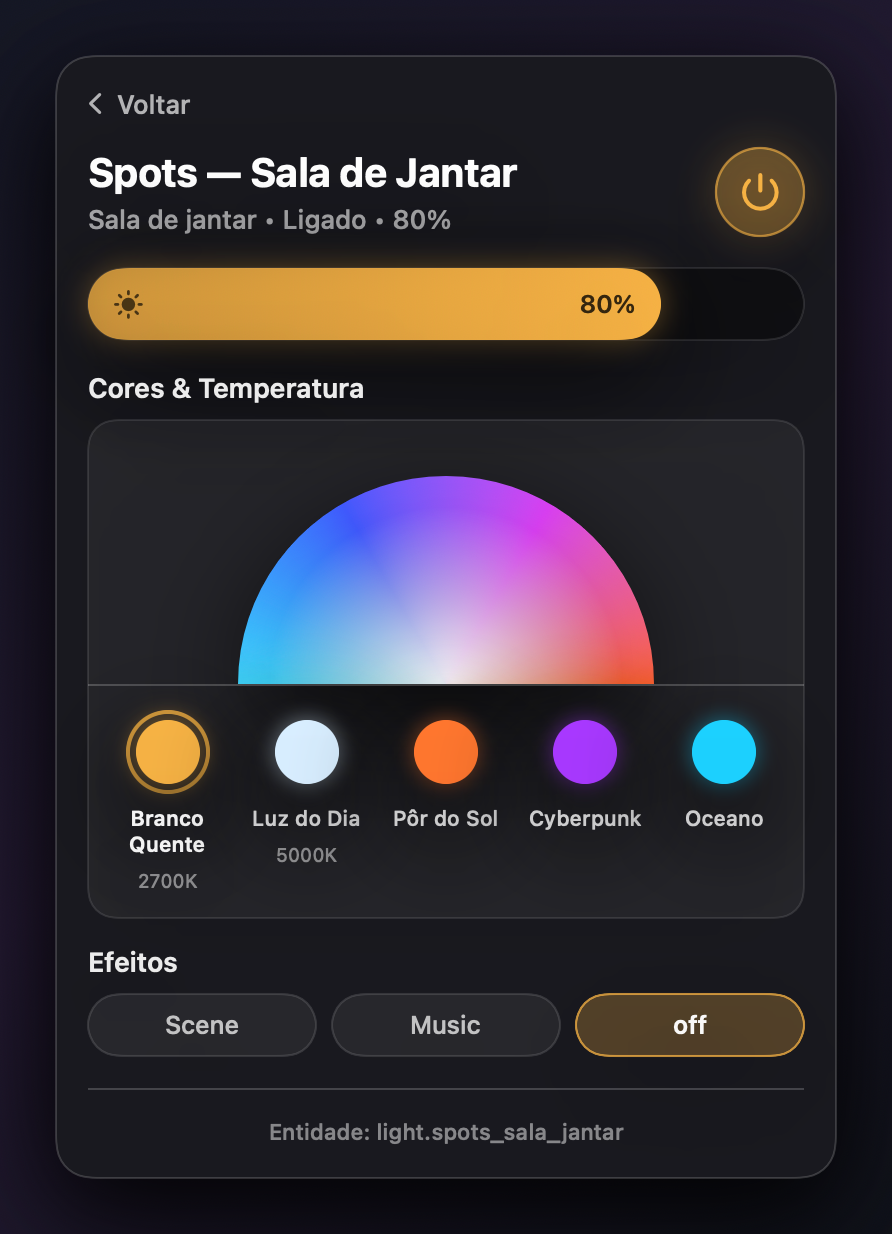
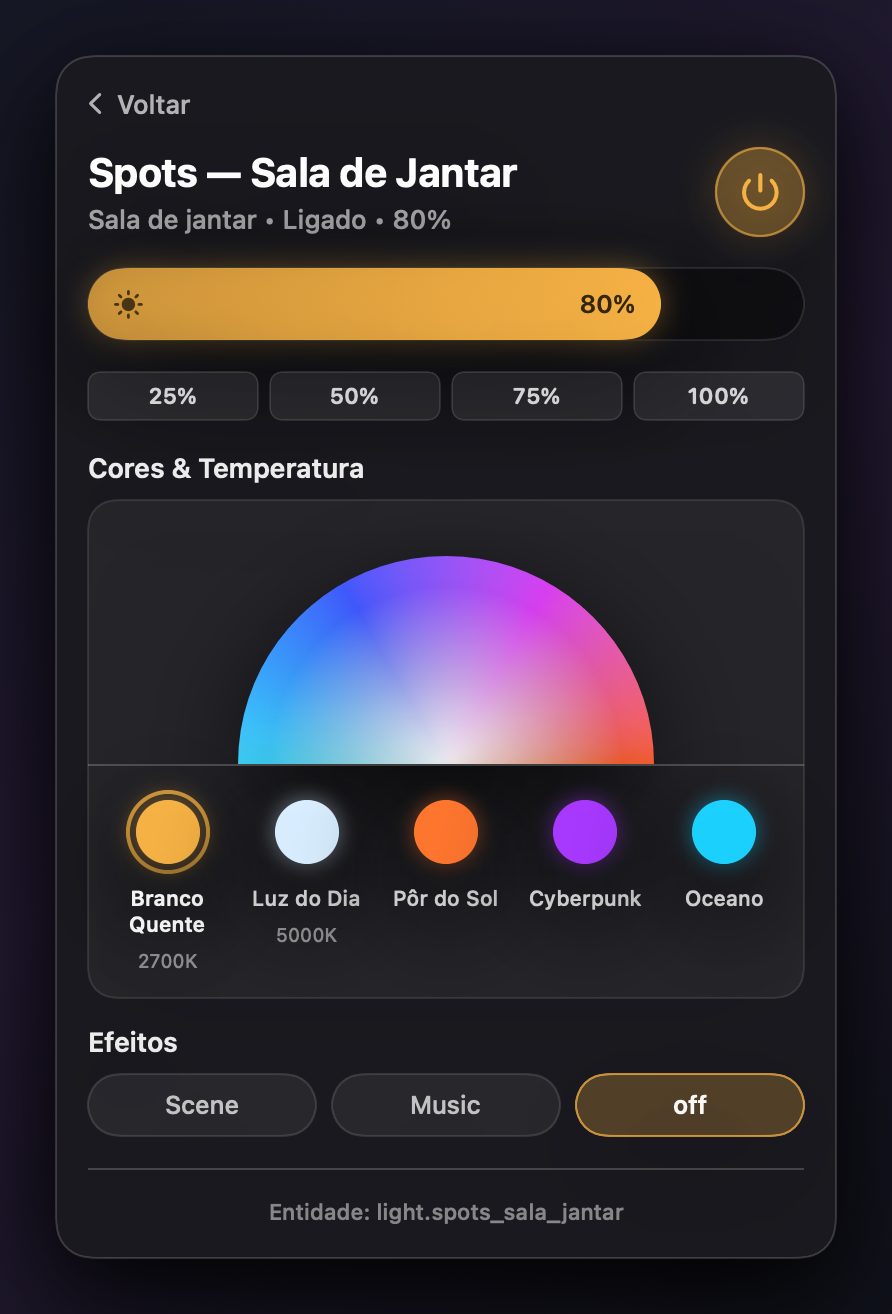
feat: complete v1.5.0 accessibility, bilingual support, quick presets & homebrew cask
- VoiceOver & Accessibility traits, hints, and adjustable actions on tactile sliders
- Bilingual localization preference (Português, English, System) with reactive L10n
- Default opening room preference
- Quick brightness presets (25%, 50%, 75%, 100%) in light detail inspector
- Homebrew Cask formula (Casks/habar.rb)
- 17 passing automated unit tests

diff --git a/Sources/HaBar/Services/HomeAssistantStore.swift b/Sources/HaBar/Services/HomeAssistantStore.swift
@@ -101,6 +101,15 @@ public final class HomeAssistantStore: ObservableObject, HomeAssistantClientDele
     @Published public var themeMode: AppThemeMode {
         didSet { defaults.set(themeMode.rawValue, forKey: Keys.themeMode) }
     }
+    @Published public var language: AppLanguage {
+        didSet {
+            defaults.set(language.rawValue, forKey: Keys.language)
+            L10n.forcedLanguage = language == .system ? nil : language.rawValue
+        }
+    }
+    @Published public var defaultOpeningRoomId: String {
+        didSet { defaults.set(defaultOpeningRoomId, forKey: Keys.defaultOpeningRoomId) }
+    }
 
     public let isScreenshotPreview: Bool
 
@@ -111,6 +120,8 @@ public final class HomeAssistantStore: ObservableObject, HomeAssistantClientDele
         static let hotKeyEnabled = "habar.hotKeyEnabled"
         static let autoCheckUpdates = "habar.autoCheckUpdates"
         static let themeMode = "habar.themeMode"
+        static let language = "habar.language"
+        static let defaultOpeningRoomId = "habar.defaultOpeningRoomId"
     }
 
     private let client: HomeAssistantAPI
@@ -147,6 +158,13 @@ public final class HomeAssistantStore: ObservableObject, HomeAssistantClientDele
         self.autoCheckUpdates = defaults.object(forKey: Keys.autoCheckUpdates) as? Bool ?? true
         self.themeMode = defaults.string(forKey: Keys.themeMode).flatMap(AppThemeMode.init) ?? .dark
 
+        let savedLang = defaults.string(forKey: Keys.language).flatMap(AppLanguage.init) ?? .system
+        self.language = savedLang
+        L10n.forcedLanguage = savedLang == .system ? nil : savedLang.rawValue
+
+        let savedDefaultRoom = defaults.string(forKey: Keys.defaultOpeningRoomId) ?? HARoom.favorites.id
+        self.defaultOpeningRoomId = savedDefaultRoom
+
         let savedURL = KeychainHelper.serverURLString
         let savedToken = KeychainHelper.loadToken()
         self.serverURLString = savedURL
@@ -181,6 +199,8 @@ public final class HomeAssistantStore: ObservableObject, HomeAssistantClientDele
         self.hotKeyEnabled = true
         self.autoCheckUpdates = false
         self.themeMode = .dark
+        self.language = .pt
+        self.defaultOpeningRoomId = HARoom.favorites.id
         self.serverURLString = "http://homeassistant.local:8123"
         self.accessToken = ""
         self.connectionStatus = .connected(host: "homeassistant.local")
@@ -195,6 +215,12 @@ public final class HomeAssistantStore: ObservableObject, HomeAssistantClientDele
     }
 
     // MARK: - Derived queries
+
+    public func applyOpeningRoomPreference() {
+        if let target = rooms.first(where: { $0.id == defaultOpeningRoomId }) {
+            selectedRoom = target
+        }
+    }
 
     public var hasCredentials: Bool {
         !accessToken.trimmingCharacters(in: .whitespacesAndNewlines).isEmpty

diff --git a/Sources/HaBar/Views/LightDetailView.swift b/Sources/HaBar/Views/LightDetailView.swift
@@ -99,6 +99,31 @@ public struct LightDetailView: View {
                 onChanged: { store.setBrightness(for: item.id, percentage: $0) }
             )
             .padding(.vertical, 2)
+
+            HStack(spacing: 6) {
+                ForEach([25, 50, 75, 100], id: \.self) { pct in
+                    Button {
+                        store.setBrightness(for: item.id, percentage: Double(pct))
+                    } label: {
+                        Text("\(pct)%")
+                            .font(.system(size: 11, weight: .semibold, design: .rounded))
+                            .foregroundColor(Int(item.brightnessPct.rounded()) == pct && item.isOn ? .black : .white.opacity(0.8))
+                            .frame(maxWidth: .infinity)
+                            .padding(.vertical, 5)
+                            .background(
+                                RoundedRectangle(cornerRadius: 6, style: .continuous)
+                                    .fill(Int(item.brightnessPct.rounded()) == pct && item.isOn ? accent : Color.white.opacity(0.08))
+                            )
+                            .overlay(
+                                RoundedRectangle(cornerRadius: 6, style: .continuous)
+                                    .stroke(Color.white.opacity(0.12), lineWidth: 0.8)
+                            )
+                    }
+                    .buttonStyle(.plain)
+                    .accessibilityLabel("\(pct) por cento de brilho")
+                }
+            }
+            .padding(.bottom, 2)
         }
 
         if item.supportsColor {

diff --git a/Sources/HaBar/Views/MainPopoverView.swift b/Sources/HaBar/Views/MainPopoverView.swift
@@ -548,6 +548,10 @@ private struct RoomPillButton: View {
         .onHover { hovering in
             isHovered = hovering
         }
+        .accessibilityElement(children: .ignore)
+        .accessibilityLabel(room.name)
+        .accessibilityValue(hasActive ? L10n.t("Dispositivos ligados", "Active devices") : L10n.t("Desligado", "Off"))
+        .accessibilityHint(L10n.t("Toque para ver este cômodo.", "Tap to view this room."))
         .zIndex(isHovered ? 100 : 1)
     }
 }
@@ -619,6 +623,10 @@ private struct ScenePillCard: View {
         .onHover { hovering in
             isHovered = hovering
         }
+        .accessibilityElement(children: .ignore)
+        .accessibilityLabel(L10n.t("Cena \(scene.name)", "Scene \(scene.name)"))
+        .accessibilityValue(scene.isActive ? L10n.t("Ativa", "Active") : L10n.t("Inativa", "Inactive"))
+        .accessibilityHint(L10n.t("Toque para ativar esta cena.", "Tap to activate this scene."))
         .zIndex(isHovered ? 100 : 1)
     }
 }
@@ -747,6 +755,10 @@ private struct DeviceControlCard: View {
         .onHover { hovering in
             isHovered = hovering
         }
+        .accessibilityElement(children: .combine)
+        .accessibilityLabel(device.name)
+        .accessibilityValue(device.formattedStatusLine)
+        .accessibilityHint(device.isReadOnly ? "" : L10n.t("Toque para alternar o estado.", "Tap to toggle state."))
         .zIndex(isHovered ? 100 : 1)
     }
 }

diff --git a/Tests/HaBarTests/StoreTests.swift b/Tests/HaBarTests/StoreTests.swift
@@ -147,4 +147,33 @@ final class StoreTests: XCTestCase {
         let store2 = HomeAssistantStore(client: mockAPI, defaults: defaults, autoConnect: false)
         XCTAssertEqual(store2.themeMode, .light)
     }
+
+    func testLanguagePreferenceAndBilingualStrings() {
+        let mockAPI = MockHomeAssistantAPI()
+        let suiteName = "test_lang_\(UUID().uuidString)"
+        let defaults = UserDefaults(suiteName: suiteName)!
+        let store = HomeAssistantStore(client: mockAPI, defaults: defaults, autoConnect: false)
+
+        store.language = .en
+        XCTAssertEqual(L10n.forcedLanguage, "en")
+        XCTAssertEqual(L10n.t("Ligar", "Turn on"), "Turn on")
+
+        store.language = .pt
+        XCTAssertEqual(L10n.forcedLanguage, "pt")
+        XCTAssertEqual(L10n.t("Ligar", "Turn on"), "Ligar")
+    }
+
+    func testOpeningRoomPreference() {
+        let mockAPI = MockHomeAssistantAPI()
+        let suiteName = "test_room_\(UUID().uuidString)"
+        let defaults = UserDefaults(suiteName: suiteName)!
+        let store = HomeAssistantStore(client: mockAPI, defaults: defaults, autoConnect: false)
+
+        store.defaultOpeningRoomId = HARoom.escritorio.id
+        store.selectedRoom = .salaTV
+        XCTAssertEqual(store.selectedRoom.id, HARoom.salaTV.id)
+
+        store.applyOpeningRoomPreference()
+        XCTAssertEqual(store.selectedRoom.id, HARoom.escritorio.id)
+    }
 }

diff --git a/Sources/HaBar/Views/SettingsView.swift b/Sources/HaBar/Views/SettingsView.swift
@@ -207,6 +207,32 @@ public struct SettingsView: View {
                     .frame(width: 195)
                 }
 
+                HStack {
+                    Text(L10n.t("Idioma", "Language"))
+                        .font(.system(size: 11.5, weight: .medium))
+                        .foregroundColor(.white.opacity(0.9))
+                    Spacer()
+                    Picker("", selection: $store.language) {
+                        ForEach(AppLanguage.allCases, id: \.self) { lang in
+                            Text(lang.title).tag(lang)
+                        }
+                    }
+                    .frame(width: 195)
+                }
+
+                HStack {
+                    Text(L10n.t("Cômodo inicial", "Opening room"))
+                        .font(.system(size: 11.5, weight: .medium))
+                        .foregroundColor(.white.opacity(0.9))
+                    Spacer()
+                    Picker("", selection: $store.defaultOpeningRoomId) {
+                        ForEach(store.rooms) { room in
+                            Text(room.name).tag(room.id)
+                        }
+                    }
+                    .frame(width: 195)
+                }
+
                 Toggle(isOn: $store.hotKeyEnabled) {
                     HStack {
                         Text("Atalho global no teclado")

diff --git a/Sources/HaBar/Support/L10n.swift b/Sources/HaBar/Support/L10n.swift
@@ -1,11 +1,25 @@
 import Foundation
 
+public enum AppLanguage: String, CaseIterable, Sendable {
+    case system
+    case pt
+    case en
+
+    public var title: String {
+        switch self {
+        case .system: return L10n.t("Automático (Sistema)", "Automatic (System)")
+        case .pt: return "Português (Brasil)"
+        case .en: return "English"
+        }
+    }
+}
+
 /// Minimal bilingual (pt-BR / English) string helper.
 ///
 /// The app is a SwiftPM executable assembled into a bundle by `scripts/build_app.sh`,
 /// so string catalogs (which need Xcode's resource pipeline) are intentionally avoided.
 public enum L10n {
-    /// Overrides the system language (used by unit tests). Accepts "pt" or "en".
+    /// Overrides the system language (used by preferences or unit tests). Accepts "pt", "en" or nil.
     public static var forcedLanguage: String?
 
     public static var isPortuguese: Bool {

diff --git a/Sources/HaBar/Views/Components/TactileSlider.swift b/Sources/HaBar/Views/Components/TactileSlider.swift
@@ -109,5 +109,22 @@ public struct TactileSlider: View {
             )
         }
         .frame(height: height)
+        .accessibilityElement(children: .ignore)
+        .accessibilityLabel(L10n.t("Brilho", "Brightness"))
+        .accessibilityValue("\(Int(percentage.rounded()))%")
+        .accessibilityAdjustableAction { direction in
+            switch direction {
+            case .increment:
+                let newPct = min(100, percentage + 10)
+                percentage = newPct
+                onChanged(newPct)
+            case .decrement:
+                let newPct = max(0, percentage - 10)
+                percentage = newPct
+                onChanged(newPct)
+            @unknown default:
+                break
+            }
+        }
     }
 }

diff --git a/Sources/HaBar/HaBarApp.swift b/Sources/HaBar/HaBarApp.swift
@@ -157,6 +157,7 @@ public final class AppDelegate: NSObject, NSApplicationDelegate {
 
     private func showPopover() {
         guard let button = statusItem.button else { return }
+        store.applyOpeningRoomPreference()
         NSApp.activate(ignoringOtherApps: true)
         popover.show(relativeTo: button.bounds, of: button, preferredEdge: .minY)
         popover.contentViewController?.view.window?.makeKey()

diff --git a/Casks/habar.rb b/Casks/habar.rb
@@ -1,0 +1,18 @@
+cask "habar" do
+  version "1.5.0"
+  sha256 :no_check
+
+  url "https://github.com/vagneralencar/HaBar-Macos/releases/download/v#{version}/HaBar.zip"
+  name "HaBar"
+  desc "Native macOS Menu Bar Controller for Home Assistant"
+  homepage "https://github.com/vagneralencar/HaBar-Macos"
+
+  depends_on macos: ">= :sonoma"
+
+  app "HaBar.app"
+
+  zap trash: [
+    "~/.config/habar",
+    "~/Library/Preferences/io.github.habar.menubar.plist",
+  ]
+end

diff --git a/README.md b/README.md
@@ -41,6 +41,10 @@
 - **Keyboard Navigation**: Use `Esc` to step back from details or dismiss the popover instantly.
 - **Power Consumption Monitoring (W)**: Live wattage display on cards for smart plugs and appliances reporting energy usage.
 - **Dynamic Status Bar Icon**: Changes dynamically based on connection status (connected, reconnecting, unauthorized) with live tooltip descriptions.
+- **VoiceOver & Accessibility**: Fully accessible with custom VoiceOver labels, traits, values, hints, and adjustable actions on tactile sliders.
+- **Bilingual Interface**: Select Portuguese (Brasil), English, or System default.
+- **Default Opening Room**: Configure which room opens by default (*Favorites* or any custom room).
+- **Quick Brightness Presets**: Instant 25%, 50%, 75%, and 100% buttons in the light detail inspector.
 - **Real-Time WebSocket Sync**: Subscribes to `state_changed` events via `/api/websocket` with REST fallback and optimistic UI updates with automatic rollback on failure.
 
 ---
